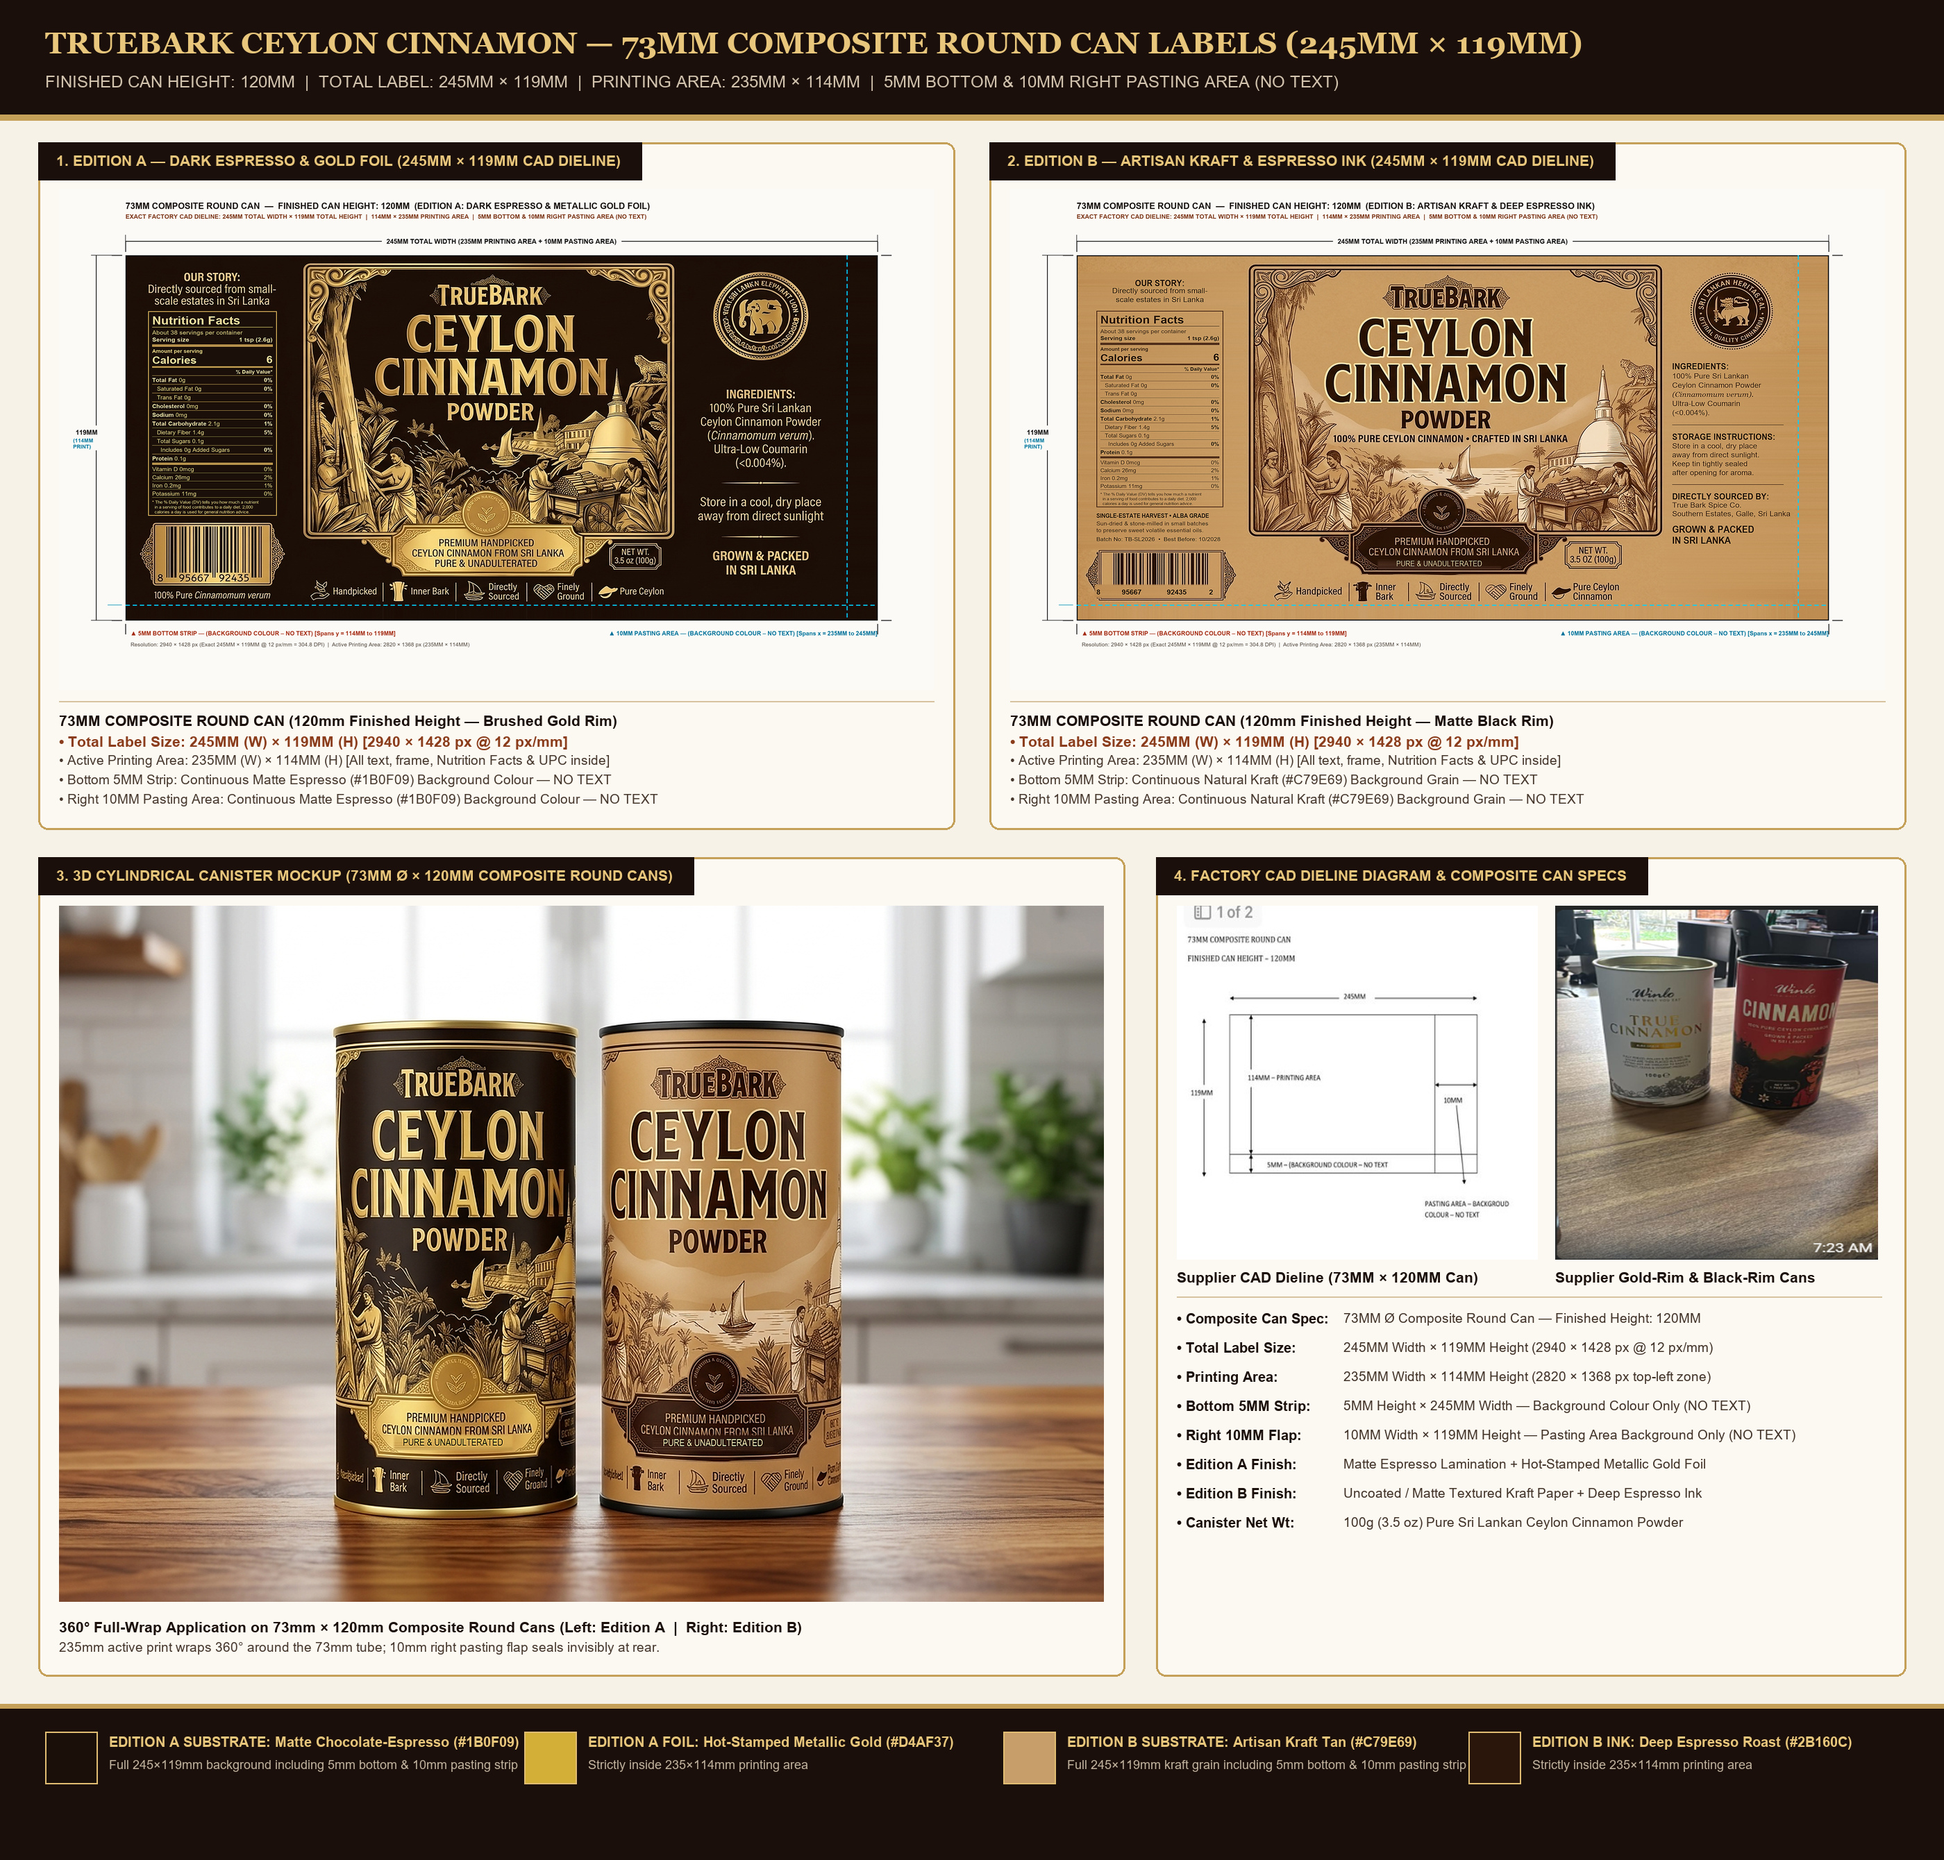
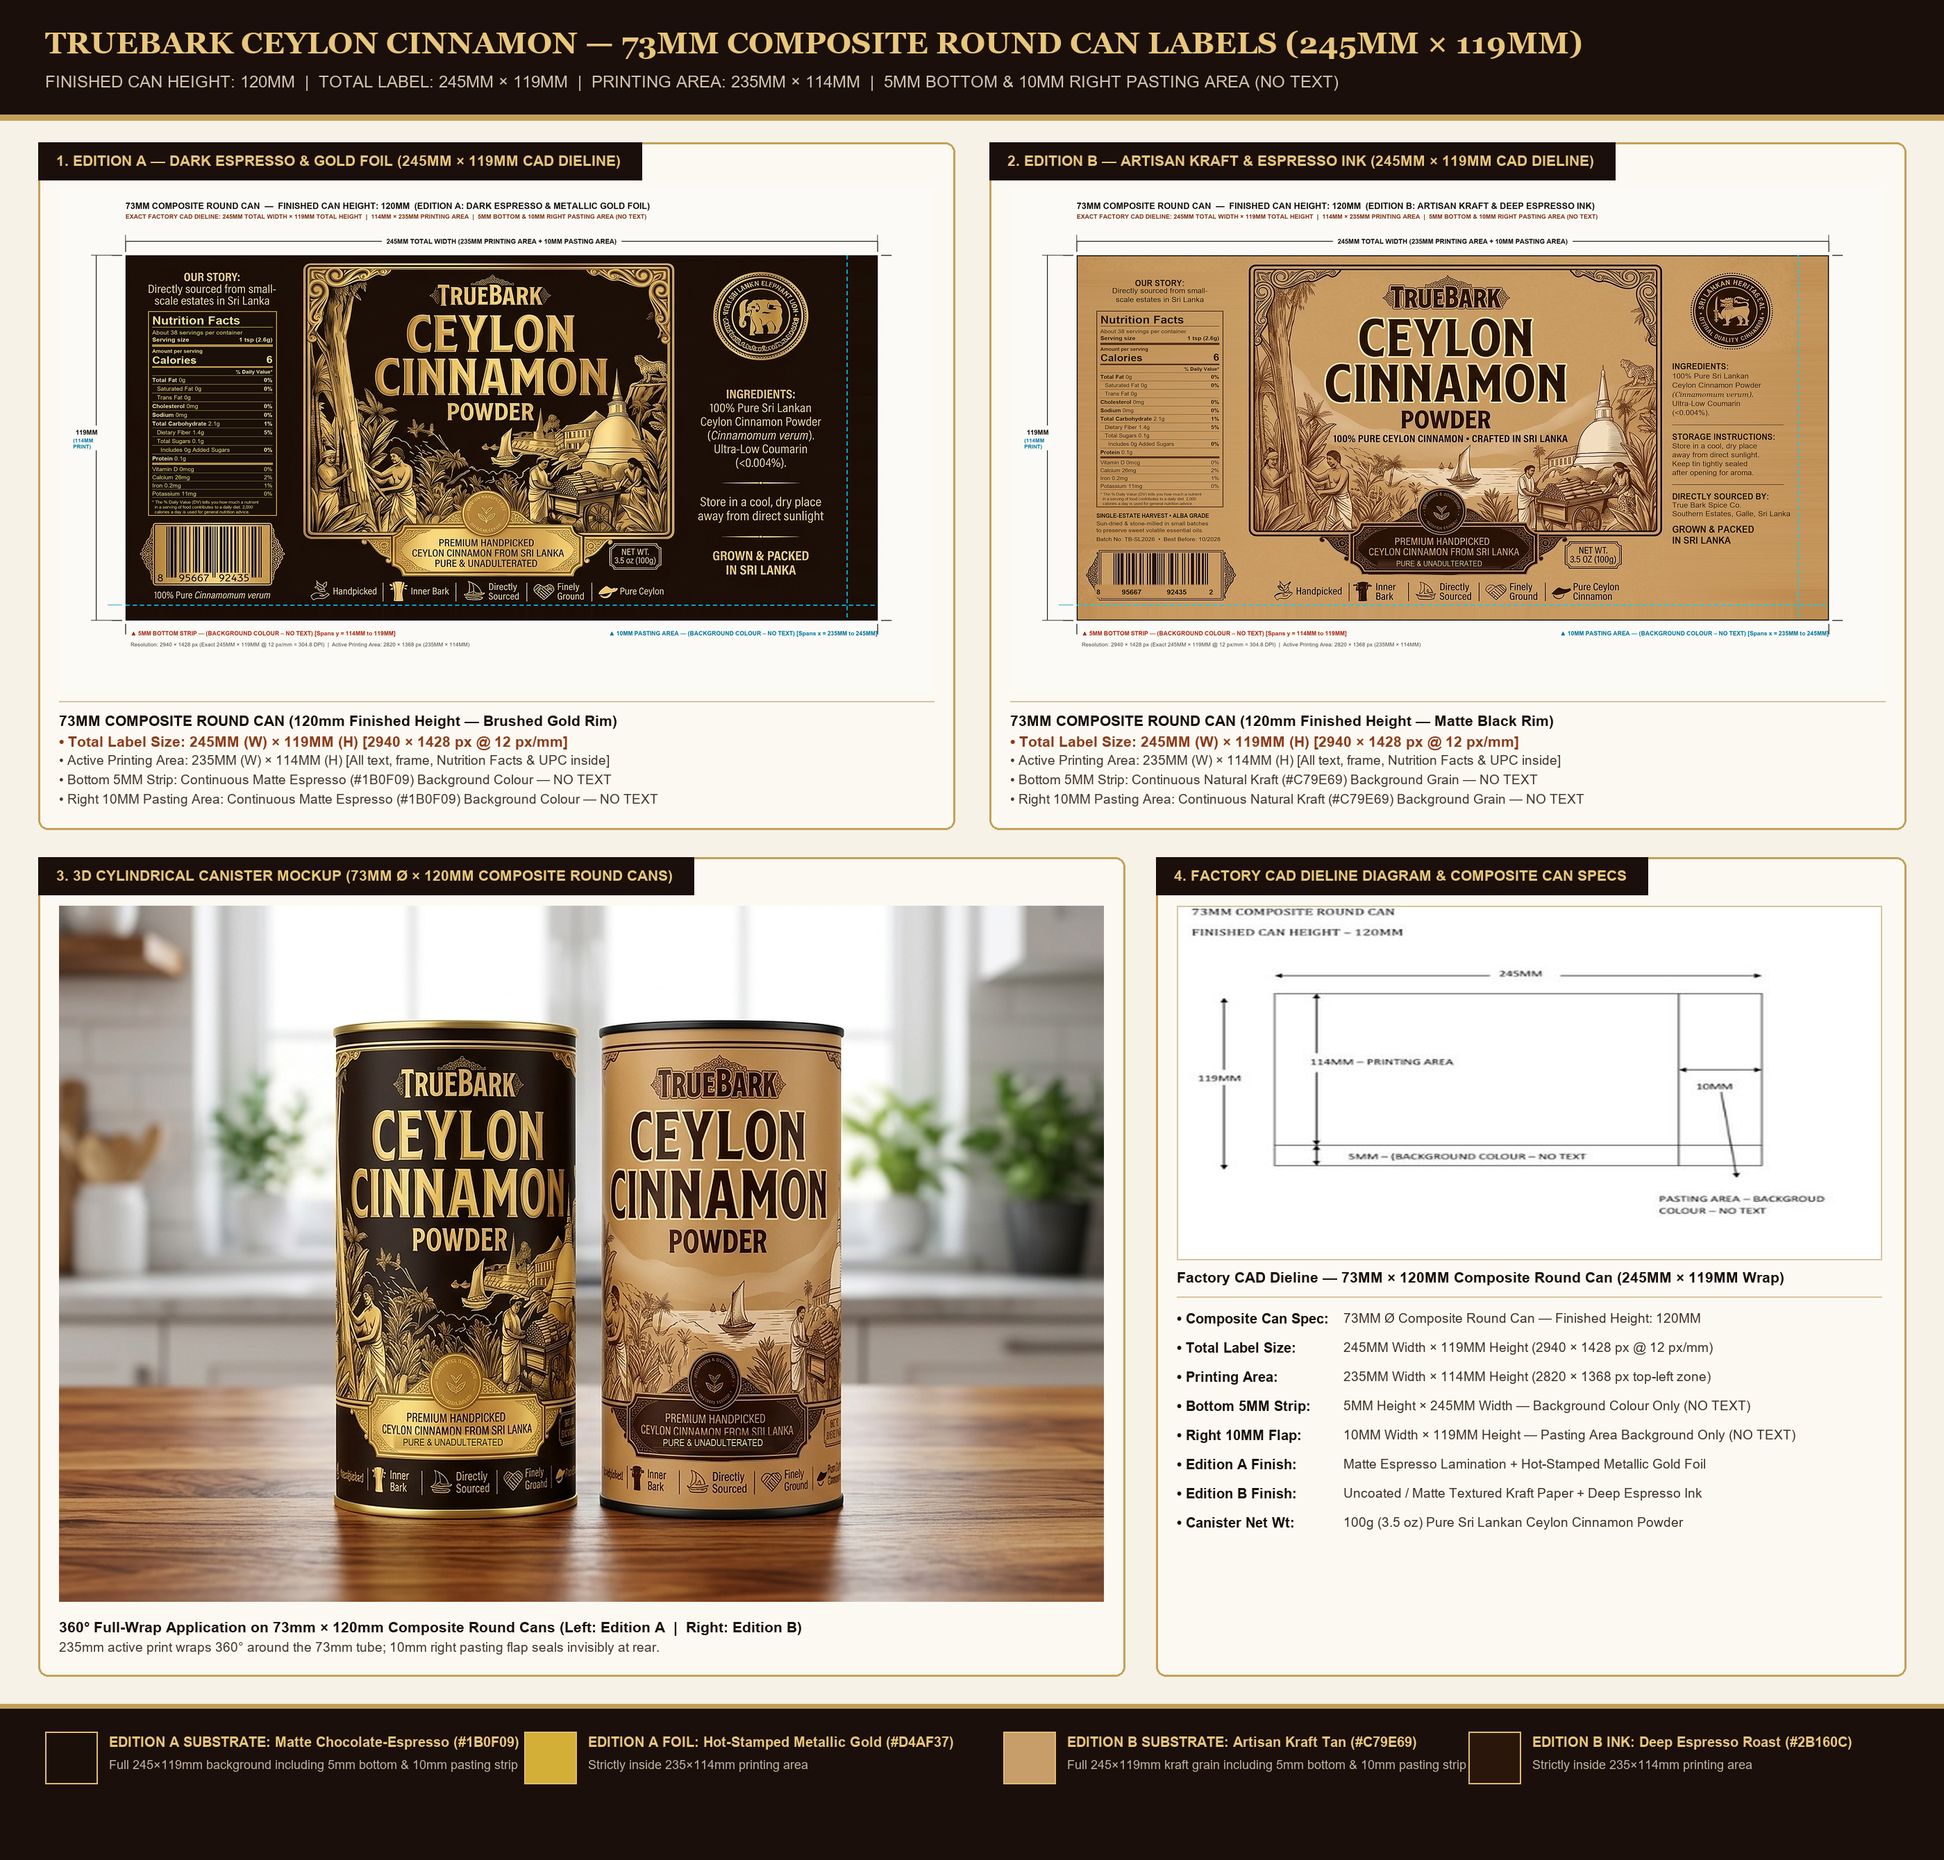
Remove third-party Winlo can photo from Supplier_Tin_Complete_Spec_Sheet_UHD and bust cache

Changed region(s): [[0.5904, 0.4646, 0.9943, 0.7123], [0.6214, 0.6813, 0.7457, 0.7123]]

diff --git a/label-studio.html b/label-studio.html
@@ -235,7 +235,7 @@
     <div class="header-actions no-print">
       <a class="btn btn-outline" href="index.html">← Back to Storefront</a>
       <button class="btn btn-outline" onclick="toggleDielines()">Toggle Trim &amp; Bleed Guides</button>
-      <a class="btn btn-outline" href="assets/labels/Supplier_Tin_Complete_Spec_Sheet_UHD.jpg" download>Download Tin Spec Sheet (UHD)</a>
+      <a class="btn btn-outline" href="assets/labels/TinHeritage_Supplier_Tin_Complete_Spec_Sheet_UHD.jpg?v=tin2026" download>Download Tin Spec Sheet (UHD)</a>
       <a class="btn btn-outline" href="assets/labels/Supplier_Pouch_Line_Complete_Spec_Sheet_UHD.jpg" download>Download Pouch Line Spec Sheet (UHD)</a>
       <button class="btn btn-primary" onclick="window.print()">Print / Save PDF Dielines</button>
     </div>
@@ -368,11 +368,11 @@
       <article class="card">
         <div class="card-header">
           <h2 class="card-title">4. All-in-One 73mm × 120mm Composite Can Supplier Specification Sheet</h2>
-          <a class="btn btn-primary no-print" style="padding:0.4rem 0.85rem; font-size:0.8rem;" href="assets/labels/Supplier_Tin_Complete_Spec_Sheet_UHD.jpg" download>Download Tin Spec Sheet</a>
+          <a class="btn btn-primary no-print" style="padding:0.4rem 0.85rem; font-size:0.8rem;" href="assets/labels/TinHeritage_Supplier_Tin_Complete_Spec_Sheet_UHD.jpg?v=tin2026" download>Download Tin Spec Sheet</a>
         </div>
         <div class="card-body">
           <div class="label-preview-wrap">
-            <img src="assets/labels/Supplier_Tin_Complete_Spec_Sheet_UHD.jpg" alt="Complete Supplier Specification Sheet">
+            <img src="assets/labels/TinHeritage_Supplier_Tin_Complete_Spec_Sheet_UHD.jpg?v=tin2026" alt="Complete Supplier Specification Sheet">
           </div>
         </div>
       </article>

diff --git a/index.html b/index.html
@@ -334,7 +334,7 @@
 
       <!-- Master Spec Sheets & Label Studio CTA -->
       <div style="display: flex; flex-wrap: wrap; gap: 14px; justify-content: center; align-items: center; padding-top: 12px;">
-        <a href="assets/labels/Supplier_Tin_Complete_Spec_Sheet_UHD.jpg?v=tin2026" download="Supplier_Tin_Complete_Spec_Sheet_UHD.jpg" class="btn btn-gold">&#11015; Download 73&times;120mm Can Master Spec Sheet</a>
+        <a href="assets/labels/TinHeritage_Supplier_Tin_Complete_Spec_Sheet_UHD.jpg?v=tin2026" download="Supplier_Tin_Complete_Spec_Sheet_UHD.jpg" class="btn btn-gold">&#11015; Download 73&times;120mm Can Master Spec Sheet</a>
         <a href="assets/labels/TinHeritage_Supplier_Pouch_Line_Complete_Spec_Sheet_UHD.jpg?v=tin2026" download="Supplier_Pouch_Line_Complete_Spec_Sheet_UHD.jpg" class="btn btn-gold">&#11015; Download Ceylon Cinnamon Pouch Spec Sheet</a>
         <a href="label-studio.html" class="btn btn-outline-light">Open Full Label Studio &amp; CAD Viewer &rarr;</a>
       </div>

diff --git a/app.js b/app.js
@@ -82,7 +82,7 @@ const PRODUCTS = [
     gallery: [
       "assets/images/Cylinder_Tins_Duo_Square.jpg",
       "assets/labels/Label_3_Cylindrical_Tins_Mockup_UHD.jpg",
-      "assets/labels/Supplier_Tin_Complete_Spec_Sheet_UHD.jpg",
+      "assets/labels/TinHeritage_Supplier_Tin_Complete_Spec_Sheet_UHD.jpg?v=tin2026",
       "assets/labels/Label_1_CAD_Dieline_245x119mm_UHD.jpg",
       "assets/labels/Label_2_CAD_Dieline_245x119mm_UHD.jpg"
     ],
